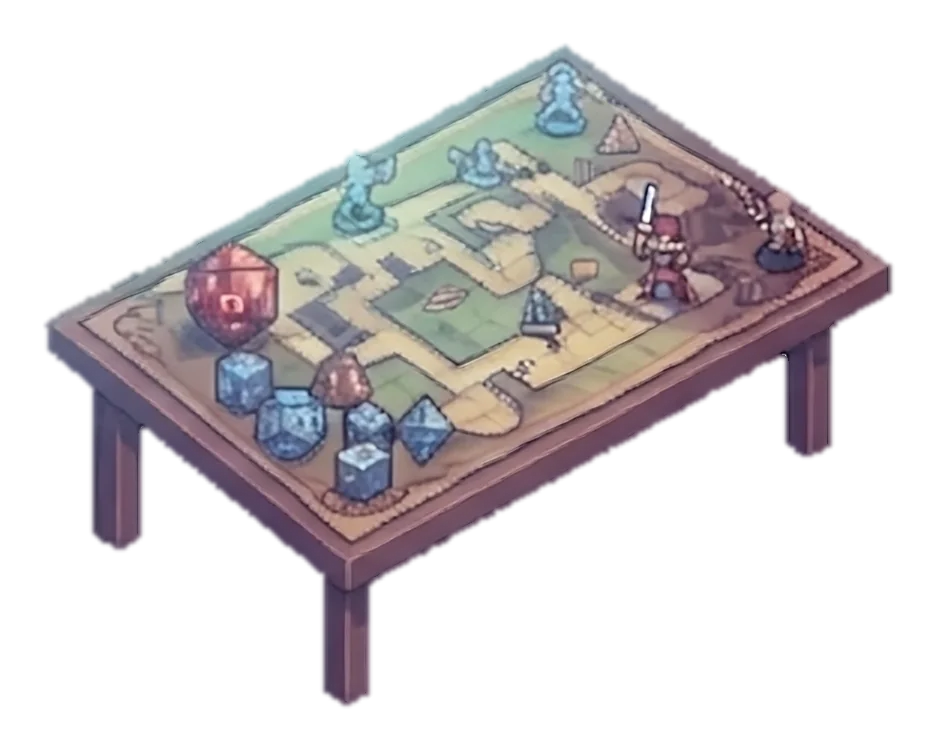
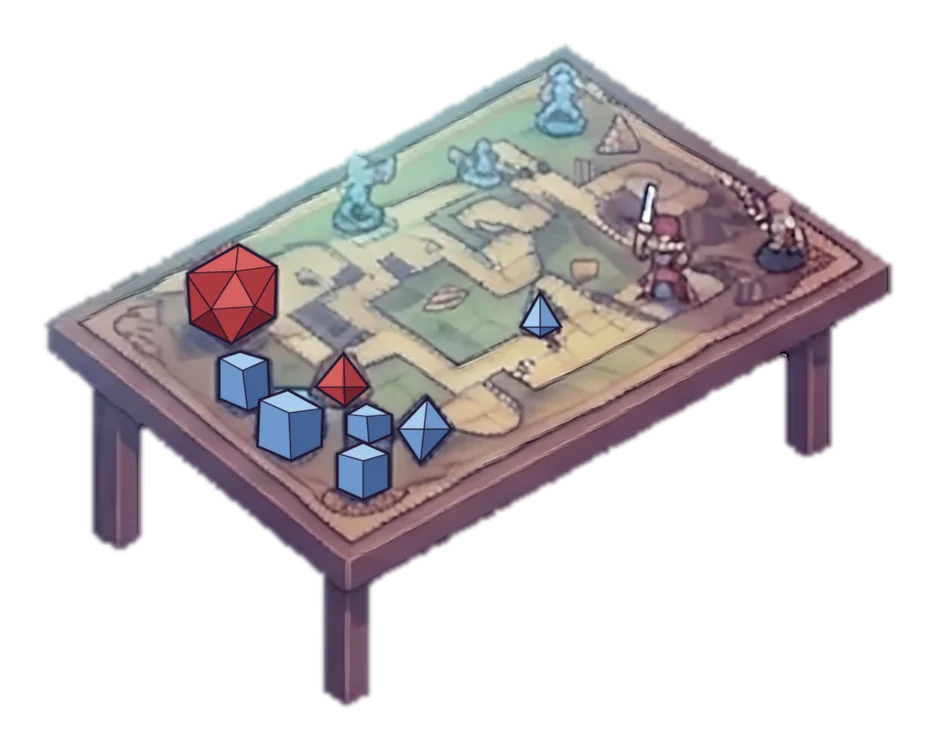
Arcade: dados de la mesa redibujados como figuras geométricas, sin números
Claude-Session: https://claude.ai/code/session_01WvcRZ9mxL7Ztf2JTxQvTJ1

Changed region(s): [[0.1859, 0.3067, 0.4957, 0.6747], [0.5577, 0.3987, 0.6197, 0.46]]

diff --git a/scripts/arcade_room.py b/scripts/arcade_room.py
@@ -20,7 +20,7 @@ from pathlib import Path
 
 import cv2
 import numpy as np
-from PIL import Image
+from PIL import Image, ImageFilter
 
 import cv2.xphoto  # noqa: F401  (opencv-contrib-python-headless)
 from cutout import connected_to_border, disk, save_rgba, R_FRAC, E_FRAC
@@ -84,6 +84,91 @@ def clear_marquee(hd: np.ndarray) -> np.ndarray:
     w = cv2.GaussianBlur(mq.astype(np.float32), (0, 0), 0.8 * SCALE)[..., None]
     w = np.clip(w * 1.6, 0, 1)
     return (fill * w + f * (1 - w)).astype(np.uint8)
+
+
+# Dados de la mesa de DnD (píxeles del original), de atrás adelante. En el dibujo eran manchas con
+# números borrosos; se redibujan como figuras geométricas planas: caras en tres tonos y contorno oscuro.
+# Tipos: "d20" (hexágono con triángulo central), "cubo" (6 vértices: arriba-izq, arriba, arriba-der,
+# abajo-der, abajo, abajo-izq), "rombo" (4 vértices: arriba, derecha, abajo, izquierda; d8, d10 y d4).
+RED = ((214, 96, 98), (172, 58, 64), (118, 34, 46))
+BLUE = ((170, 205, 238), (112, 152, 204), (68, 98, 150))
+DICE = [
+    ("d20", RED, [(710.5, 345), (723.5, 352.5), (723, 370), (708, 379), (694, 372), (693, 355)]),
+    ("rombo", RED, [(745.5, 381), (754.5, 393), (746, 400), (735.5, 393)]),
+    ("rombo", BLUE, [(811, 360.5), (818.5, 373), (811, 377), (804, 373)]),
+    ("cubo", BLUE, [(703.6, 383), (711, 380.7), (720.7, 383.6), (721.4, 398.6), (713.6, 401.4), (703.6, 397.1)]),
+    ("cubo", BLUE, [(746, 402), (753, 398), (762, 402), (762, 409), (754, 412.5), (746, 409)]),
+    ("cubo", BLUE, [(717, 397), (727, 393.5), (739, 400), (738.6, 413), (728, 418), (716.4, 413)]),
+    ("rombo", BLUE, [(773.5, 396), (782, 407), (771, 419), (763, 407)]),
+    ("cubo", BLUE, [(743, 415), (752, 411), (761, 415), (761, 427), (752, 431), (743, 427)]),
+]
+INK = (31, 21, 48)
+
+
+def redraw_dice(hd: np.ndarray) -> np.ndarray:
+    """Pinta los dados encima de la versión nítida, con antialias (se dibuja a x4 y se reduce)."""
+    from PIL import ImageDraw
+
+    pts_all = np.array([p for _, _, pts in DICE for p in pts]) * SCALE
+    x0, y0 = (pts_all.min(axis=0) - 6).astype(int)
+    x1, y1 = (pts_all.max(axis=0) + 6).astype(int)
+    SS = 4
+    layer = Image.new("RGBA", ((x1 - x0) * SS, (y1 - y0) * SS), (0, 0, 0, 0))
+    d = ImageDraw.Draw(layer)
+    k = SCALE * SS
+    lw = round(0.9 * k)
+
+    def P(p):
+        return ((p[0] * SCALE - x0) * SS, (p[1] * SCALE - y0) * SS)
+
+    def poly(pts, fill):
+        d.polygon([P(p) for p in pts], fill=fill + (255,))
+
+    def line(a, b, w=None):
+        d.line([P(a), P(b)], fill=INK + (255,), width=w or max(1, lw // 2))
+
+    for kind, (light, mid, dark), v in DICE:
+        c = (sum(p[0] for p in v) / len(v), sum(p[1] for p in v) / len(v))
+        if kind == "cubo":
+            tl, t, tr, br, b, bl = v
+            cc = (t[0] + (b[0] - t[0]) * 0.33, t[1] + (b[1] - t[1]) * 0.33)  # esquina de delante
+            poly([tl, t, tr, cc], light)
+            poly([tl, cc, b, bl], mid)
+            poly([cc, tr, br, b], dark)
+            line(tl, cc); line(cc, tr); line(cc, b)
+        elif kind == "d20":
+            poly(v, mid)
+            # triángulo central hacia arriba y las caras de alrededor
+            tri = [(c[0] + (v[0][0] - c[0]) * 0.45, c[1] + (v[0][1] - c[1]) * 0.45),
+                   (c[0] + (v[2][0] - c[0]) * 0.5, c[1] + (v[2][1] - c[1]) * 0.5),
+                   (c[0] + (v[4][0] - c[0]) * 0.5, c[1] + (v[4][1] - c[1]) * 0.5)]
+            poly([v[5], v[0], tri[0]], light)
+            poly([v[0], v[1], tri[0]], light)
+            poly([v[2], v[3], tri[1]], dark)
+            poly([v[3], v[4], tri[2]], dark)
+            poly(tri, light)
+            for a, b in ((tri[0], tri[1]), (tri[1], tri[2]), (tri[2], tri[0])):
+                line(a, b)
+            for vi, ti in ((5, 0), (0, 0), (1, 0), (1, 1), (2, 1), (3, 1), (3, 2), (4, 2), (5, 2)):
+                line(v[vi], tri[ti])
+        else:  # rombo
+            t, r, b, l = v
+            m = ((l[0] + r[0]) / 2, (l[1] + r[1]) / 2)
+            poly([t, m, l], light)
+            poly([t, r, m], mid)
+            poly([l, m, b], mid)
+            poly([m, r, b], dark)
+            line(l, r); line(t, b)
+        d.polygon([P(p) for p in v], outline=INK + (255,), width=lw)
+
+    # un pelo de suavizado para que case con el trazo pintado del resto de la mesa
+    layer = layer.resize((x1 - x0, y1 - y0), Image.LANCZOS).filter(ImageFilter.GaussianBlur(0.5))
+    a = np.array(layer).astype(np.float32) / 255
+    region = hd[y0:y1, x0:x1].astype(np.float32)
+    region = region * (1 - a[..., 3:4]) + a[..., :3] * 255 * a[..., 3:4]
+    out = hd.copy()
+    out[y0:y1, x0:x1] = np.clip(region, 0, 255).astype(np.uint8)
+    return out
 
 
 def poly_mask(shape, pts, grow=2):
@@ -295,6 +380,7 @@ def main():
     if HD.exists():
         hd = np.array(Image.open(HD).convert("RGB"))
         hd = clear_marquee(hd)
+        hd = redraw_dice(hd)
         hd = hd.astype(np.float32)
         # en la sala, el suelo que tapaban los objetos sale del relleno, ampliado
         filled_up = cv2.resize(filled, (hd.shape[1], hd.shape[0]), interpolation=cv2.INTER_CUBIC)
